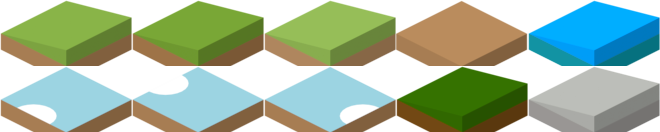
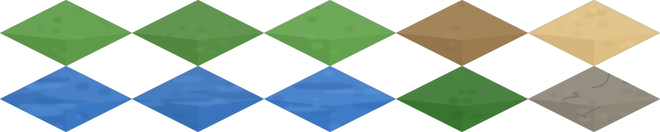
feat(terreno): diamantes planos estilo S4 + espuma de orilla
- make-terrain.mjs: 10 tiles propios deterministicos, sin laterales 3D
- foam-ne/se/sw/nw por vecinos agua-tierra con parpadeo
- terrain.test.ts (sheet 660x132), zoom 0.7, sharp en devDeps
- Tests 13/13 + build OK

Checkpoint: proto-a-terreno2

diff --git a/src/game/scenes/GameScene.ts b/src/game/scenes/GameScene.ts
@@ -48,6 +48,10 @@ export class GameScene extends Phaser.Scene {
   preload() {
     this.load.tilemapTiledJSON('isla-01', 'assets/maps/isla-01.json');
     this.load.image('terreno', 'assets/terrain-sheet.png');
+    this.load.image('foam-ne', 'assets/foam-ne.png');
+    this.load.image('foam-se', 'assets/foam-se.png');
+    this.load.image('foam-sw', 'assets/foam-sw.png');
+    this.load.image('foam-nw', 'assets/foam-nw.png');
   }
 
   create() {
@@ -88,8 +92,7 @@ export class GameScene extends Phaser.Scene {
         this.decorate(tx, ty, t, x, y);
       }
     }
-    // marcador hover (diamante)
-    this.hoverMarker = this.add.graphics().setDepth(9400);
+    // marcador hover (diamante)    this.hoverMarker = this.add.graphics().setDepth(9400);
     this.hoverMarker.lineStyle(2, 0xfde68a, 0.9);
     this.hoverMarker.beginPath();
     this.hoverMarker.moveTo(0, -TILE_H / 2);
@@ -102,6 +105,33 @@ export class GameScene extends Phaser.Scene {
 
     const c = this.iso(this.center.x, this.center.y);
     this.add.circle(c.x, c.y - 8, this.territoryRadius * 68, 0xfbbf24, 0.07).setDepth(9390).setStrokeStyle(2, 0xfbbf24, 0.45);
+    this.placeFoam();
+  }
+
+  private isWater(t: string): boolean {
+    return t === 'water' || t === 'waterB' || t === 'waterC';
+  }
+
+  /** Espuma en los bordes donde el agua toca tierra (estilo S4). */
+  private placeFoam() {
+    const at = (tx: number, ty: number): string | null =>
+      tx < 0 || ty < 0 || tx >= MAP || ty >= MAP ? null : terrainAt(tx, ty);
+    for (let ty = 0; ty < MAP; ty++) {
+      for (let tx = 0; tx < MAP; tx++) {
+        if (!this.isWater(terrainAt(tx, ty))) continue;
+        const { x, y } = this.iso(tx, ty);
+        const edges: [number, number, string][] = [
+          [1, 0, 'foam-se'], [-1, 0, 'foam-nw'], [0, 1, 'foam-sw'], [0, -1, 'foam-ne'],
+        ];
+        for (const [dx, dy, tex] of edges) {
+          const nb = at(tx + dx, ty + dy);
+          if (nb !== null && !this.isWater(nb)) {
+            const f = this.add.image(x, y, tex).setDepth(50);
+            this.tweens.add({ targets: f, alpha: 0.55, duration: 1400 + Math.random() * 800, yoyo: true, repeat: -1, ease: 'Sine.easeInOut' });
+          }
+        }
+      }
+    }
   }
 
   private decorate(tx: number, ty: number, t: string, x: number, y: number) {
@@ -137,7 +167,7 @@ export class GameScene extends Phaser.Scene {
 
   private setupCamera() {
     const cam = this.cameras.main;
-    cam.setZoom(0.75);
+    cam.setZoom(0.7);
     cam.centerOn(0, 450);
     this.input.on('wheel', (_p: unknown, _o: unknown, _dx: number, dy: number) => {
       cam.setZoom(Phaser.Math.Clamp(cam.zoom * (dy > 0 ? 0.9 : 1.1), 0.3, 2));

diff --git a/tests/unit/terrain.test.ts b/tests/unit/terrain.test.ts
@@ -1,0 +1,28 @@
+import { existsSync, readFileSync } from 'node:fs';
+import { join } from 'node:path';
+import { describe, expect, it } from 'vitest';
+
+// El terreno plano lo genera scripts/make-terrain.mjs (determinista).
+// Estos tests garantizan que los PNG commiteados son los esperados.
+
+function pngSize(p: string): { w: number; h: number } {
+  const b = readFileSync(p);
+  expect(b.subarray(1, 4).toString()).toBe('PNG');
+  return { w: b.readUInt32BE(16), h: b.readUInt32BE(20) };
+}
+
+describe('terreno plano S4', () => {
+  const assets = join(__dirname, '..', '..', 'public', 'assets');
+
+  it('sheet 5x2 de diamantes 132x66', () => {
+    expect(pngSize(join(assets, 'terrain-sheet.png'))).toEqual({ w: 660, h: 132 });
+  });
+
+  it('espuma en los 4 bordes, del mismo tamaño que el tile', () => {
+    for (const e of ['ne', 'se', 'sw', 'nw']) {
+      const p = join(assets, `foam-${e}.png`);
+      expect(existsSync(p)).toBe(true);
+      expect(pngSize(p)).toEqual({ w: 132, h: 66 });
+    }
+  });
+});

diff --git a/docs/ATRIBUCION-A.md b/docs/ATRIBUCION-A.md
@@ -3,13 +3,16 @@
 Todo el código y arte propios salvo lo listado aquí (licencias compatibles,
 verificadas archivo por archivo).
 
-## Kenney (kenney.nl) — CC0 1.0, sin atribución obligatoria
-- `public/assets/terrain-sheet.png`: 10 tiles recortados (diamante 132×66) y
-  reteñidos con sharp desde `Isometric Landscape` + variantes de agua.
-  Origen zips: `Temp/opencode/kenney/` (isometric-landscape 1 141 541 bytes…).
-  `License.txt` del pack: CC0 explícito (`creativecommons.org/publicdomain/zero/1.0`).
-- Audio (Fase 2A): `RPG Audio`, `Interface Sounds`, `Impact Sounds` (CC0).
-- Mención por cortesía: sprites por Kenney (www.kenney.nl).
+## Terreno: 100% propio
+- `public/assets/terrain-sheet.png` y `foam-*.png`: generados por
+  `scripts/make-terrain.mjs` (sharp + SVG, RNG determinista). Ningún píxel de
+  terceros. Los packs Kenney descargados (`Temp/opencode/kenney/`) se usaron
+  solo como **referencia visual** durante el diseño y para validar el formato
+  de tileset; no queda ningún PNG suyo en el repo.
+
+## Kenney (kenney.nl) — CC0 1.0 (pendiente Fase 2A: audio)
+- Audio previsto: `RPG Audio`, `Interface Sounds`, `Impact Sounds` (CC0).
+- Mención por cortesía: referencias de Kenney (www.kenney.nl).
 
 ## Prohibido en esta rama
 Material GPL (Widelands) o comercial. Ver `docs/GUIA-ESTILO.md` §5.

diff --git a/docs/devlog/008-terreno2.md b/docs/devlog/008-terreno2.md
@@ -1,0 +1,24 @@
+# Devlog 008 — Terreno plano estilo S4 (rama A, 2026-09-07)
+
+## Problema
+El terreno Kenney (bloques 3D con laterales en cada loseta) "mareaba":
+rejilla muy marcada y contraste alto. S4 usa diamantes planos con transiciones
+suaves y orillas de espuma.
+
+## Cambios
+- `scripts/make-terrain.mjs` (nuevo, sharp en devDependencies): 10 diamantes
+  132×66 100% propios y deterministas (RNG con seed): 3 hierbas, tierra,
+  arena, 3 aguas con vetas, bosque oscuro, montaña con grietas. Moteado
+  sutil + luz superior. Sin laterales, exterior transparente.
+- `public/assets/foam-{ne,se,sw,nw}.png`: bandas de espuma por borde.
+- `GameScene.placeFoam()`: coloca espuma donde el agua toca tierra (vecinos
+  +x→SE, −x→NW, +y→SW, −y→NE) con parpadeo suave. Zoom inicial 0.7.
+- `tests/unit/terrain.test.ts`: dimensiones del sheet (660×132) y espumas.
+- `docs/ATRIBUCION-A.md`: el terreno es obra propia; Kenney queda como
+  referencia + audio pendiente.
+
+## Verificación
+- `npm test`: 13/13. `npm run build`: OK.
+
+## Checkpoint
+- Tag: `proto-a-terreno2`. Porte a B previsto (mismo terreno en ambas).
